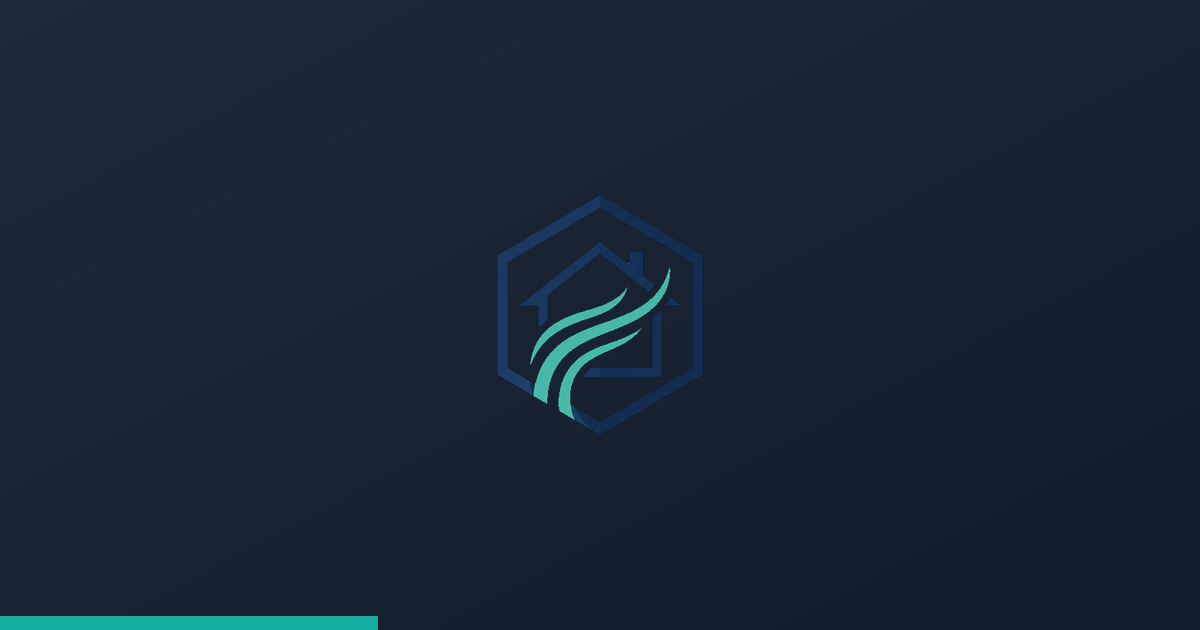
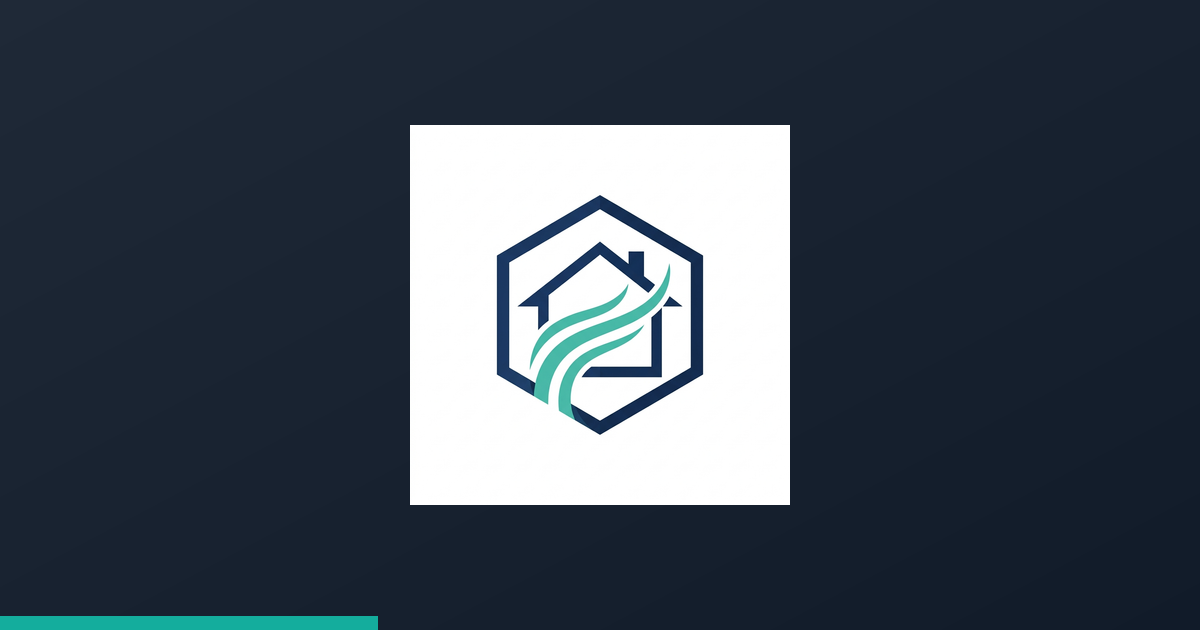
deploy: komokaductcleaning.ca (github actions)

Changed region(s): [[0.3392, 0.181, 0.6783, 0.8143]]

diff --git a/about/index.html b/about/index.html
@@ -149,7 +149,7 @@
 <div class="footer-grid">
 <div>
 <a class="brand footer-brand" href="/">
-<img alt="Komoka Duct Cleaning" class="brand__logo" decoding="async" height="64" loading="eager" src="/assets/img/logos-trans/komokaductcleaning.ca.png" width="64"/>
+<img alt="Komoka Duct Cleaning" class="brand__logo" decoding="async" height="64" loading="eager" src="/assets/img/logos/komokaductcleaning.ca.png" width="64"/>
 </a>
 <p class="footer-about">Honest, dependable air duct cleaning for Komoka, Ontario and the surrounding Middlesex communities. Certified, insured, and available 24/7.</p>
 </div>

diff --git a/blog/index.html b/blog/index.html
@@ -102,7 +102,7 @@
 <div class="footer-grid">
 <div>
 <a class="brand footer-brand" href="/">
-<img alt="Komoka Duct Cleaning" class="brand__logo" decoding="async" height="64" loading="eager" src="/assets/img/logos-trans/komokaductcleaning.ca.png" width="64"/>
+<img alt="Komoka Duct Cleaning" class="brand__logo" decoding="async" height="64" loading="eager" src="/assets/img/logos/komokaductcleaning.ca.png" width="64"/>
 </a>
 <p class="footer-about">Honest, dependable air duct cleaning for Komoka, Ontario and the surrounding Middlesex communities. Certified, insured, and available 24/7.</p>
 </div>

diff --git a/contact/index.html b/contact/index.html
@@ -174,7 +174,7 @@
 <div class="footer-grid">
 <div>
 <a class="brand footer-brand" href="/">
-<img alt="Komoka Duct Cleaning" class="brand__logo" decoding="async" height="64" loading="eager" src="/assets/img/logos-trans/komokaductcleaning.ca.png" width="64"/>
+<img alt="Komoka Duct Cleaning" class="brand__logo" decoding="async" height="64" loading="eager" src="/assets/img/logos/komokaductcleaning.ca.png" width="64"/>
 </a>
 <p class="footer-about">Honest, dependable air duct cleaning for Komoka, Ontario and the surrounding Middlesex communities. Certified, insured, and available 24/7.</p>
 </div>

diff --git a/index.html b/index.html
@@ -477,7 +477,7 @@
 <div class="footer-grid">
 <div>
 <a class="brand footer-brand" href="/">
-<img alt="Komoka Duct Cleaning" class="brand__logo" decoding="async" height="64" loading="eager" src="/assets/img/logos-trans/komokaductcleaning.ca.png" width="64"/>
+<img alt="Komoka Duct Cleaning" class="brand__logo" decoding="async" height="64" loading="eager" src="/assets/img/logos/komokaductcleaning.ca.png" width="64"/>
 </a>
 <p class="footer-about">Honest, dependable air duct cleaning for Komoka, Ontario and the surrounding Middlesex communities. Certified, insured, and available 24/7.</p>
 </div>

diff --git a/services/air-duct-cleaning/index.html b/services/air-duct-cleaning/index.html
@@ -225,7 +225,7 @@
 <div class="footer-grid">
 <div>
 <a class="brand footer-brand" href="/">
-<img alt="Komoka Duct Cleaning" class="brand__logo" decoding="async" height="64" loading="eager" src="/assets/img/logos-trans/komokaductcleaning.ca.png" width="64"/>
+<img alt="Komoka Duct Cleaning" class="brand__logo" decoding="async" height="64" loading="eager" src="/assets/img/logos/komokaductcleaning.ca.png" width="64"/>
 </a>
 <p class="footer-about">Honest, dependable air duct cleaning for Komoka, Ontario and the surrounding Middlesex communities. Certified, insured, and available 24/7.</p>
 </div>

diff --git a/services/commercial-duct-cleaning/index.html b/services/commercial-duct-cleaning/index.html
@@ -225,7 +225,7 @@
 <div class="footer-grid">
 <div>
 <a class="brand footer-brand" href="/">
-<img alt="Komoka Duct Cleaning" class="brand__logo" decoding="async" height="64" loading="eager" src="/assets/img/logos-trans/komokaductcleaning.ca.png" width="64"/>
+<img alt="Komoka Duct Cleaning" class="brand__logo" decoding="async" height="64" loading="eager" src="/assets/img/logos/komokaductcleaning.ca.png" width="64"/>
 </a>
 <p class="footer-about">Honest, dependable air duct cleaning for Komoka, Ontario and the surrounding Middlesex communities. Certified, insured, and available 24/7.</p>
 </div>

diff --git a/services/dryer-vent-cleaning/index.html b/services/dryer-vent-cleaning/index.html
@@ -225,7 +225,7 @@
 <div class="footer-grid">
 <div>
 <a class="brand footer-brand" href="/">
-<img alt="Komoka Duct Cleaning" class="brand__logo" decoding="async" height="64" loading="eager" src="/assets/img/logos-trans/komokaductcleaning.ca.png" width="64"/>
+<img alt="Komoka Duct Cleaning" class="brand__logo" decoding="async" height="64" loading="eager" src="/assets/img/logos/komokaductcleaning.ca.png" width="64"/>
 </a>
 <p class="footer-about">Honest, dependable air duct cleaning for Komoka, Ontario and the surrounding Middlesex communities. Certified, insured, and available 24/7.</p>
 </div>

diff --git a/services/duct-sanitizing/index.html b/services/duct-sanitizing/index.html
@@ -225,7 +225,7 @@
 <div class="footer-grid">
 <div>
 <a class="brand footer-brand" href="/">
-<img alt="Komoka Duct Cleaning" class="brand__logo" decoding="async" height="64" loading="eager" src="/assets/img/logos-trans/komokaductcleaning.ca.png" width="64"/>
+<img alt="Komoka Duct Cleaning" class="brand__logo" decoding="async" height="64" loading="eager" src="/assets/img/logos/komokaductcleaning.ca.png" width="64"/>
 </a>
 <p class="footer-about">Honest, dependable air duct cleaning for Komoka, Ontario and the surrounding Middlesex communities. Certified, insured, and available 24/7.</p>
 </div>

diff --git a/services/duct-sealing-repair/index.html b/services/duct-sealing-repair/index.html
@@ -225,7 +225,7 @@
 <div class="footer-grid">
 <div>
 <a class="brand footer-brand" href="/">
-<img alt="Komoka Duct Cleaning" class="brand__logo" decoding="async" height="64" loading="eager" src="/assets/img/logos-trans/komokaductcleaning.ca.png" width="64"/>
+<img alt="Komoka Duct Cleaning" class="brand__logo" decoding="async" height="64" loading="eager" src="/assets/img/logos/komokaductcleaning.ca.png" width="64"/>
 </a>
 <p class="footer-about">Honest, dependable air duct cleaning for Komoka, Ontario and the surrounding Middlesex communities. Certified, insured, and available 24/7.</p>
 </div>

diff --git a/services/furnace-ac-cleaning/index.html b/services/furnace-ac-cleaning/index.html
@@ -225,7 +225,7 @@
 <div class="footer-grid">
 <div>
 <a class="brand footer-brand" href="/">
-<img alt="Komoka Duct Cleaning" class="brand__logo" decoding="async" height="64" loading="eager" src="/assets/img/logos-trans/komokaductcleaning.ca.png" width="64"/>
+<img alt="Komoka Duct Cleaning" class="brand__logo" decoding="async" height="64" loading="eager" src="/assets/img/logos/komokaductcleaning.ca.png" width="64"/>
 </a>
 <p class="footer-about">Honest, dependable air duct cleaning for Komoka, Ontario and the surrounding Middlesex communities. Certified, insured, and available 24/7.</p>
 </div>

diff --git a/services/hrv-ventilation-cleaning/index.html b/services/hrv-ventilation-cleaning/index.html
@@ -225,7 +225,7 @@
 <div class="footer-grid">
 <div>
 <a class="brand footer-brand" href="/">
-<img alt="Komoka Duct Cleaning" class="brand__logo" decoding="async" height="64" loading="eager" src="/assets/img/logos-trans/komokaductcleaning.ca.png" width="64"/>
+<img alt="Komoka Duct Cleaning" class="brand__logo" decoding="async" height="64" loading="eager" src="/assets/img/logos/komokaductcleaning.ca.png" width="64"/>
 </a>
 <p class="footer-about">Honest, dependable air duct cleaning for Komoka, Ontario and the surrounding Middlesex communities. Certified, insured, and available 24/7.</p>
 </div>

diff --git a/404.html b/404.html
@@ -84,7 +84,7 @@
 <div class="footer-grid">
 <div>
 <a class="brand footer-brand" href="/">
-<img alt="Komoka Duct Cleaning" class="brand__logo" decoding="async" height="64" loading="eager" src="/assets/img/logos-trans/komokaductcleaning.ca.png" width="64"/>
+<img alt="Komoka Duct Cleaning" class="brand__logo" decoding="async" height="64" loading="eager" src="/assets/img/logos/komokaductcleaning.ca.png" width="64"/>
 </a>
 <p class="footer-about">Honest, dependable air duct cleaning for Komoka, Ontario and the surrounding Middlesex communities. Certified, insured, and available 24/7.</p>
 </div>
